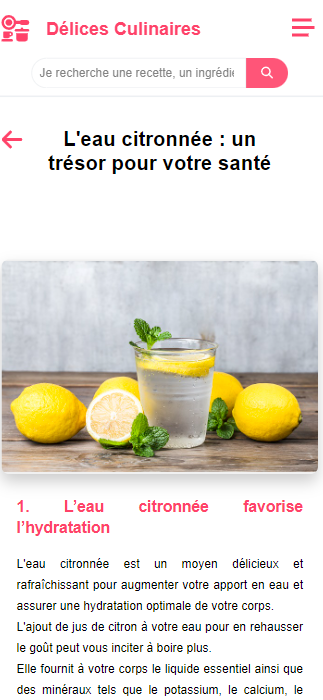
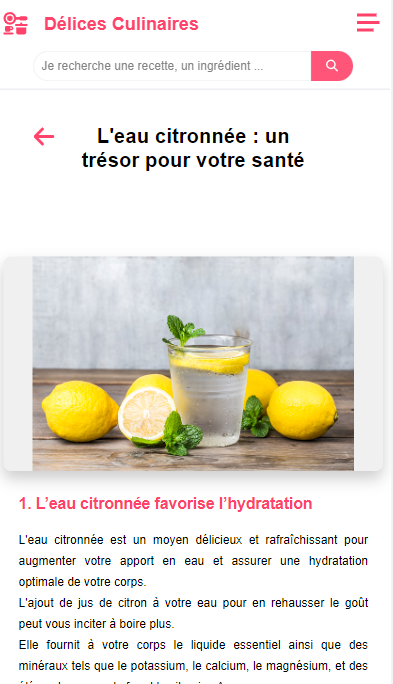
edit projectDetailPage

diff --git a/src/datas/projectsDataDetail.js b/src/datas/projectsDataDetail.js
@@ -8,6 +8,8 @@ const projectsDataDetail = [
         "L'objectif principal était de créer une plateforme intuitive et réactive de recettes de cuisine, tout en maîtrisant la gestion d'état avec Redux. Je voulais également concevoir une architecture modulaire avec des composants réutilisables, optimiser les performances de l'application et garantir sa fluidité sur tous les appareils grâce à un design adapté.",
       challenge:
         "La principale difficulté du projet a été de réfléchir à la structure à adopter pour une navigation intuitive de l'utilisateur. La conceptualisation de l'UI/UX m'a demandé une réflexion approfondie, particulièrement dans l'anticipation des besoins et des comportements des utilisateurs. L’outil Figma m’a permis de tester différents prototypes avant d'arriver à la version finale.",
+      responsive:
+        "La responsivité du site  garantit une expérience utilisateur optimale sur tous les dispositifs, des mobiles aux ordinateurs de bureau.",
       collaboration: [
         "En travaillant en équipe, et notamment en adoptant des méthodologies comme Agile et Scrum, plusieurs améliorations auraient été possibles pour ce projet.",
         "1. Des revues de code régulières auraient assuré une meilleure qualité grâce aux échanges et au partage de connaissances.",
@@ -15,12 +17,14 @@ const projectsDataDetail = [
         "3. En collaborant avec une équipe, nous aurions pu solliciter un éventail plus large d'utilisateurs pour tester le projet, offrant ainsi des retours plus variés.",
         "4. Le partage des tâches aurait accéléré le développement, chaque membre apportant ses compétences spécifiques.",
       ],
+
       optimizationAndAccessibility:
-        "J'ai activement cherché à rendre ce site inclusif en mettant l'accent sur l'accessibilité. En utilisant le Color Contrast Checker de WebAIM, j'ai sélectionné des contrastes de couleurs conformes aux normes WCAG, assurant une meilleure lisibilité pour tous, y compris ceux ayant des troubles de la vision des couleurs.     Comme pour tous les développements la performance est au centre des priorités. Aussi, on utilise le moins de modules et librairies possible.",
+        "J'ai activement cherché à rendre ce site inclusif en mettant l'accent sur l'accessibilité. Ainsi, j'ai adapté les contrastes de couleurs selon les normes WCAG . J'ai également privilégié une conception sur mesure avec une utilisation minimale de librairies externes, garantissant performance et chargements rapides.",
     },
     additionalImages: [
-      "/assets/delices_culinaires/delice_culinaire_recette.png",
-      "/assets/delices_culinaires/delice culinaire_exemple.png",
+      "/assets/delices_culinaires/accueil_desktop.png",
+      "/assets/delices_culinaires/accueil_mobile.png",
+      "/assets/delices_culinaires/rapportLighthouse.png",
     ],
     toolsAndTech: [
       "- React & React-Router-Dom: Création et gestion de l'interface utilisateur, y compris la navigation.",
@@ -30,7 +34,6 @@ const projectsDataDetail = [
       "- Figma: Conception et prototypage de l'UI/UX.",
       "- Vercel: Déploiement et hébergement de l'application.",
     ],
-    // ... Autres champs que vous voulez ajouter pour les détails
   },
 
   {
@@ -42,12 +45,19 @@ const projectsDataDetail = [
         "L'objectif principal de ce projet était de comprendre et de maîtriser les bases fondamentales du développement web. En travaillant sans frameworks ni bibliothèques, j'ai cherché à affiner mes compétences en matière de mise en page, de typographie et de responsivité.",
       challenge:
         "La plus grande difficulté de ce projet a été de reproduire avec précision les différents éléments de design du site original, tout en assurant une compatibilité sur les différents navigateurs et tailles d'écran. Ce défi m'a permis d'approfondir ma compréhension des nuances et subtilités du CSS.",
+      responsive:
+        "La responsivité du site  garantit une expérience utilisateur optimale sur tous les dispositifs, des mobiles aux ordinateurs de bureau.",
       collaboration: [
         "Ce projet étant une reproduction individuelle, je n'ai pas travaillé en collaboration avec d'autres. Toutefois, l'apport d'une équipe aurait pu offrir des perspectives différentes sur la mise en page et le design, et m'aurait permis d'apprendre de nouvelles astuces et techniques.",
       ],
-      optimizationAndAccessibility: "",
+      optimizationAndAccessibility:
+        "En reproduisant la page d'accueil de Météo France, j'ai mis l'accent sur l'accessibilité tout en respectant le design original. Grâce à un travail exclusif en HTML et CSS, j'ai optimisé la légèreté du site pour des chargements rapides.",
     },
-    additionalImages: ["/assets/clone_meteoFrance/meteoFrance_mobile.png"],
+    additionalImages: [
+      "/assets/clone_meteoFrance/meteoFrance_desktop.png",
+      "/assets/clone_meteoFrance/meteoFrance_mobile.png",
+      "/assets/delices_culinaires/rapportLighthouse.png",
+    ],
     toolsAndTech: [
       "HTML: Structure de base du site et mise en place des éléments principaux.",
       "CSS: Personnalisation, design, et mise en page responsive du site.",

diff --git a/src/pages/ProjectsDetailPage/ProjectsDetailPage.jsx b/src/pages/ProjectsDetailPage/ProjectsDetailPage.jsx
@@ -10,6 +10,9 @@ import {
   IntroContainer,
   ObjectiveContainer,
   ChallengeContainer,
+  AlignedImageContainer,
+  ResponsiveContainer,
+  AccessibilityContainer,
   CollaborationContainer,
   MainTitle,
   StyledAnchorLink,
@@ -20,7 +23,10 @@ import {
   ListItem,
   ImageContainer,
   ImageWrapper,
+  ImageChallengeContainer,
   ProjectImage,
+  AccessibilityImage,
+  MobileImage,
 } from "./ProjectsDetailPage.styled";
 
 const ProjectsDetailPage = () => {
@@ -58,11 +64,38 @@ const ProjectsDetailPage = () => {
           <SectionTitle>Défis et Réalisations</SectionTitle>
           <TextParagraph>{projectDetail.description.challenge}</TextParagraph>
         </ChallengeContainer>
+        <AlignedImageContainer>
+          <ImageChallengeContainer>
+            <ProjectImage
+              src={projectDetail.additionalImages[0]}
+              alt={`${projectDetail.title} - Image 1`}
+            />
+            <MobileImage
+              src={projectDetail.additionalImages[1]}
+              alt={`${projectDetail.title} - Image 1`}
+            />
+          </ImageChallengeContainer>
 
-        <ProjectImage
-          src={projectDetail.additionalImages[0]}
-          alt={`${projectDetail.title} - Image 1`}
-        />
+          <ResponsiveContainer>
+            <SectionTitle>
+              Adaptabilité : Répondre à Chaque Dispositif
+            </SectionTitle>
+            <TextParagraph>
+              {projectDetail.description.responsive}
+            </TextParagraph>
+          </ResponsiveContainer>
+        </AlignedImageContainer>
+
+        <AccessibilityContainer>
+          <SectionTitle>Performance et Accessibilité</SectionTitle>
+          <TextParagraph>
+            {projectDetail.description.optimizationAndAccessibility}
+          </TextParagraph>
+          <AccessibilityImage
+            src={projectDetail.additionalImages[2]}
+            alt={`${projectDetail.title} - Image 1`}
+          />
+        </AccessibilityContainer>
 
         <CollaborationContainer>
           <SectionTitle>
@@ -75,28 +108,6 @@ const ProjectsDetailPage = () => {
             ))}
           </UnorderedList>
         </CollaborationContainer>
-
-        {projectDetail.optimizationAndAccessibility && (
-          <ObjectiveContainer>
-            {" "}
-            {/* Consider using another container or renaming for better semantics */}
-            <SectionTitle>Optimisation et Accessibilité</SectionTitle>
-            <TextParagraph>
-              {projectDetail.optimizationAndAccessibility}
-            </TextParagraph>
-          </ObjectiveContainer>
-        )}
-
-        <ImageContainer>
-          {projectDetail.additionalImages.map((image, index) => (
-            <ImageWrapper key={`img-${index}`}>
-              <ProjectImage
-                src={image}
-                alt={`${projectDetail.title} - Image ${index + 1}`}
-              />
-            </ImageWrapper>
-          ))}
-        </ImageContainer>
 
         <TechnologyContainer>
           <SectionTitle>Outils et Technologies utilisés</SectionTitle>

diff --git a/src/pages/ProjectsDetailPage/ProjectsDetailPage.styled.js b/src/pages/ProjectsDetailPage/ProjectsDetailPage.styled.js
@@ -44,7 +44,7 @@ export const ObjectiveContainer = styled.div`
   ${SharedContainerStyles}
 
   width: 70%;
-  margin: 70px 0;
+  margin: 70px auto;
   &:hover {
     ${SectionTitle} {
       color: #ffc576;
@@ -59,8 +59,9 @@ export const ObjectiveContainer = styled.div`
 
 export const ChallengeContainer = styled.div`
   ${SharedContainerStyles}
-  width: 60%;
-  float: right;
+
+  width: 70%;
+  margin: 70px auto;
   &:hover {
     ${SectionTitle} {
       color: #ffc576;
@@ -69,6 +70,48 @@ export const ChallengeContainer = styled.div`
   @media (max-width: 872px) {
     width: 100%;
     margin: 80px 0;
+  }
+`;
+
+export const AlignedImageContainer = styled.div`
+  display: flex;
+  gap: 60px;
+  align-items: center;
+  @media (max-width: 1060px) {
+    flex-direction: column;
+  }
+`;
+
+export const ResponsiveContainer = styled.div`
+  ${SharedContainerStyles}
+  width: 50%;
+
+  &:hover {
+    ${SectionTitle} {
+      color: #ffc576;
+    }
+  }
+  @media (max-width: 1060px) {
+    width: 70%;
+  }
+  @media (max-width: 872px) {
+    width: 100%;
+    margin: 80px 0;
+  }
+  @media (max-width: 514px) {
+    margin: 20px 0;
+  }
+`;
+
+export const AccessibilityContainer = styled.div`
+  ${SharedContainerStyles}
+  margin: 70px 0;
+
+  width: 100%;
+  &:hover {
+    ${SectionTitle} {
+      color: #ffc576;
+    }
   }
 `;
 
@@ -154,8 +197,46 @@ export const ImageWrapper = styled.div`
   }
 `;
 
+export const ImageChallengeContainer = styled.div`
+  display: flex;
+  gap: 30px;
+  @media (max-width: 532px) {
+    flex-direction: column;
+  }
+`;
+
 export const ProjectImage = styled.img`
+  width: 60%;
+
+  display: block;
+  border-radius: 7px;
+  margin-bottom: 20px;
+  height: 200px;
+  overflow: hidden;
+
+  @media (max-width: 872px) {
+    margin: auto;
+  }
+  @media (max-width: 532px) {
+    width: 100%;
+  }
+`;
+
+export const AccessibilityImage = styled.img`
   width: 100%;
+  max-width: 300px;
+  display: block;
+  border-radius: 7px;
+  margin-bottom: 20px;
+  max-height: 462px;
+  overflow: hidden;
+  margin: auto;
+  // @media (max-width: 872px) {
+  //   margin: auto;
+  // }
+`;
+export const MobileImage = styled.img`
+  height: 300px;
   max-width: 300px;
   display: block;
   border-radius: 7px;

diff --git a/src/datas/projectsData.js b/src/datas/projectsData.js
@@ -3,7 +3,7 @@ const projectsData = [
     title: "Site de recettes de cuisine",
     description:
       "Projet personnel développé en React, ce site présente une variété de recettes de cuisine.",
-    images: ["/assets/delices_culinaires/delice_culinaire_accueil.png"],
+    images: ["/assets/delices_culinaires/accueil_desktop.png"],
     technologies: ["HTML", "CSS", "React"],
     externalLink: "https://interface-phi.vercel.app/",
     githubLink: "https://github.com/angelique31/cooking-recipes-site",
